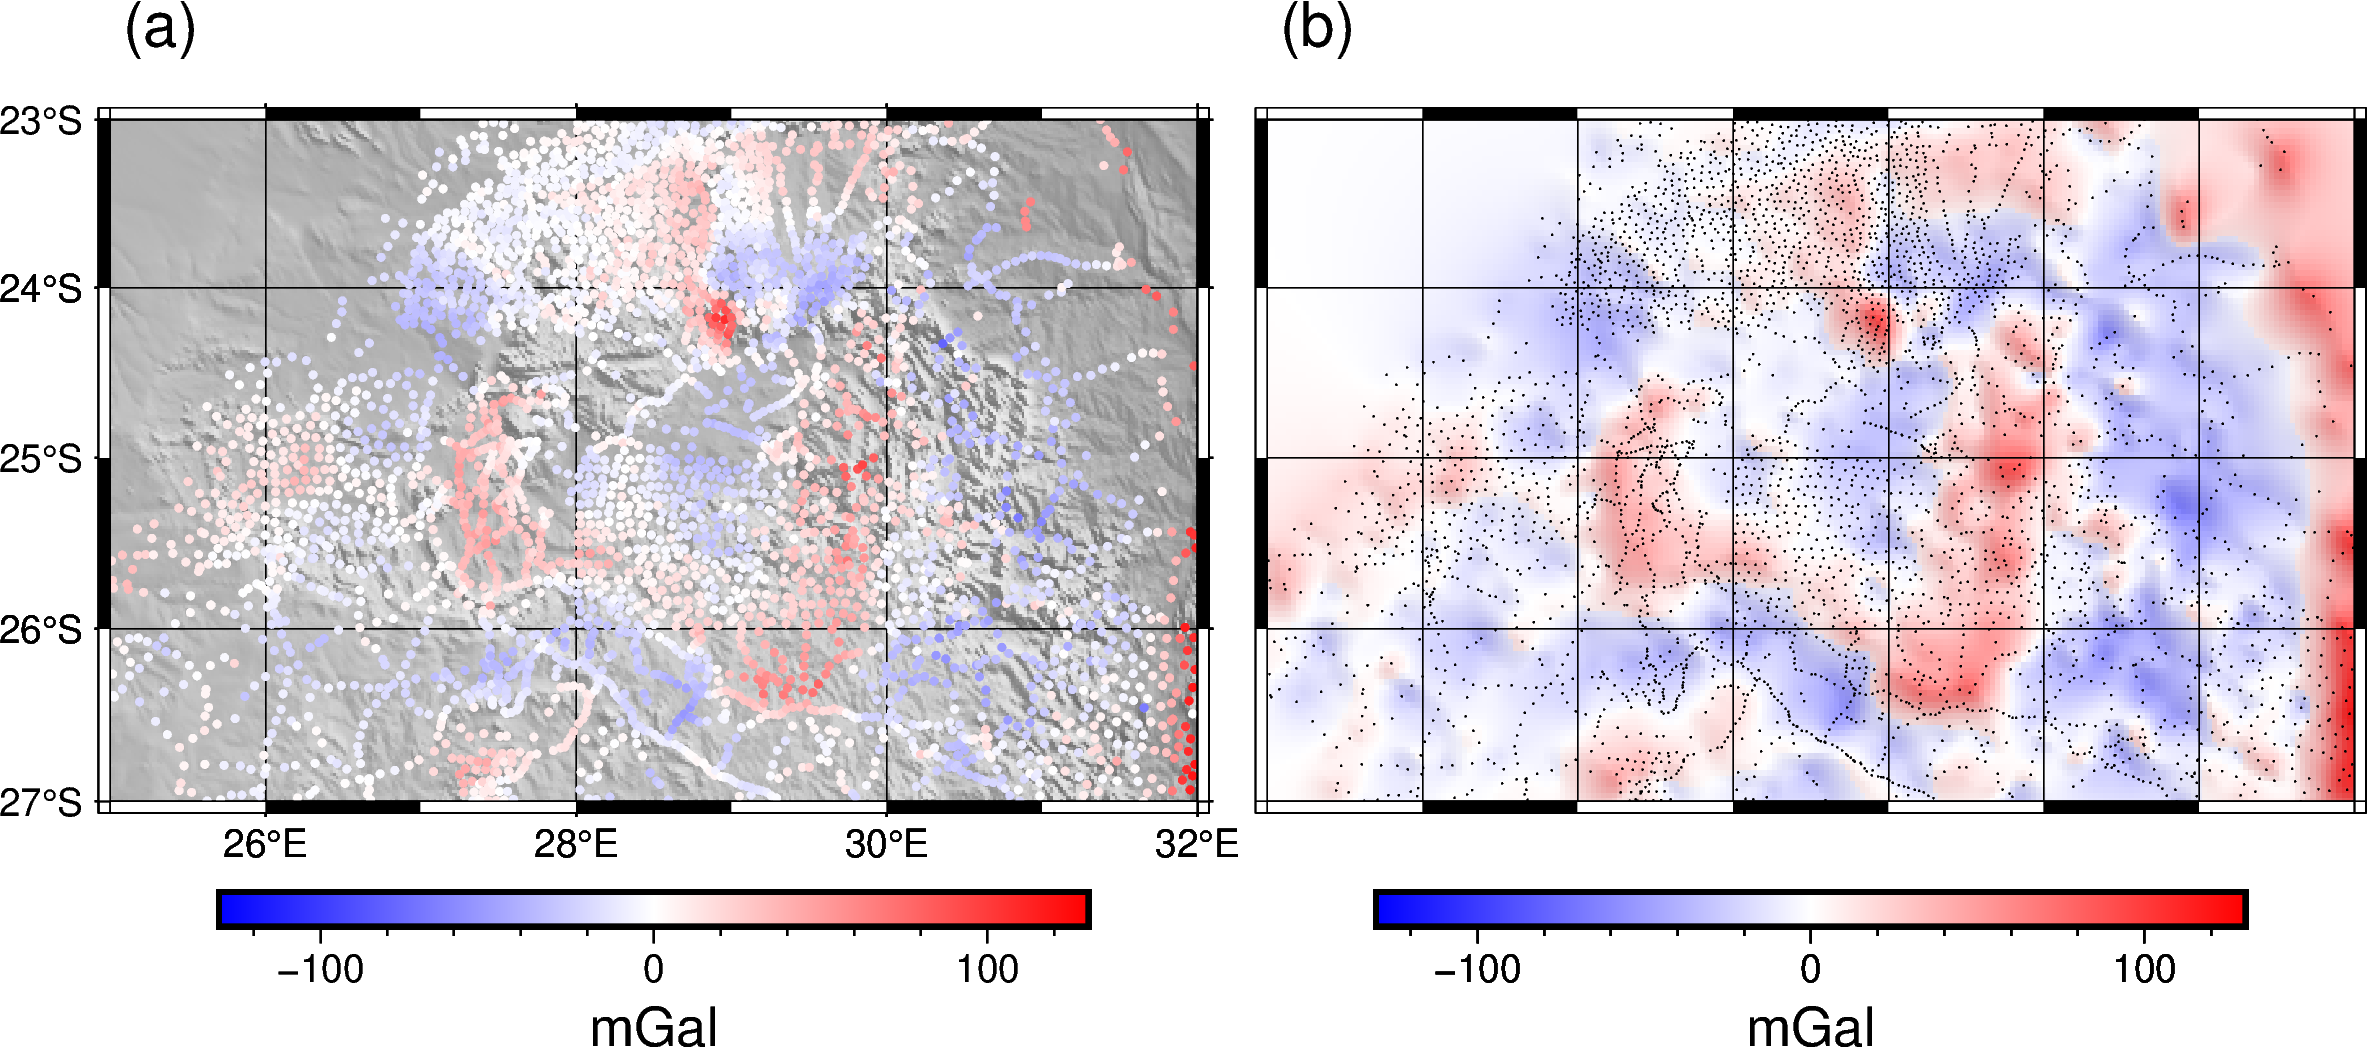
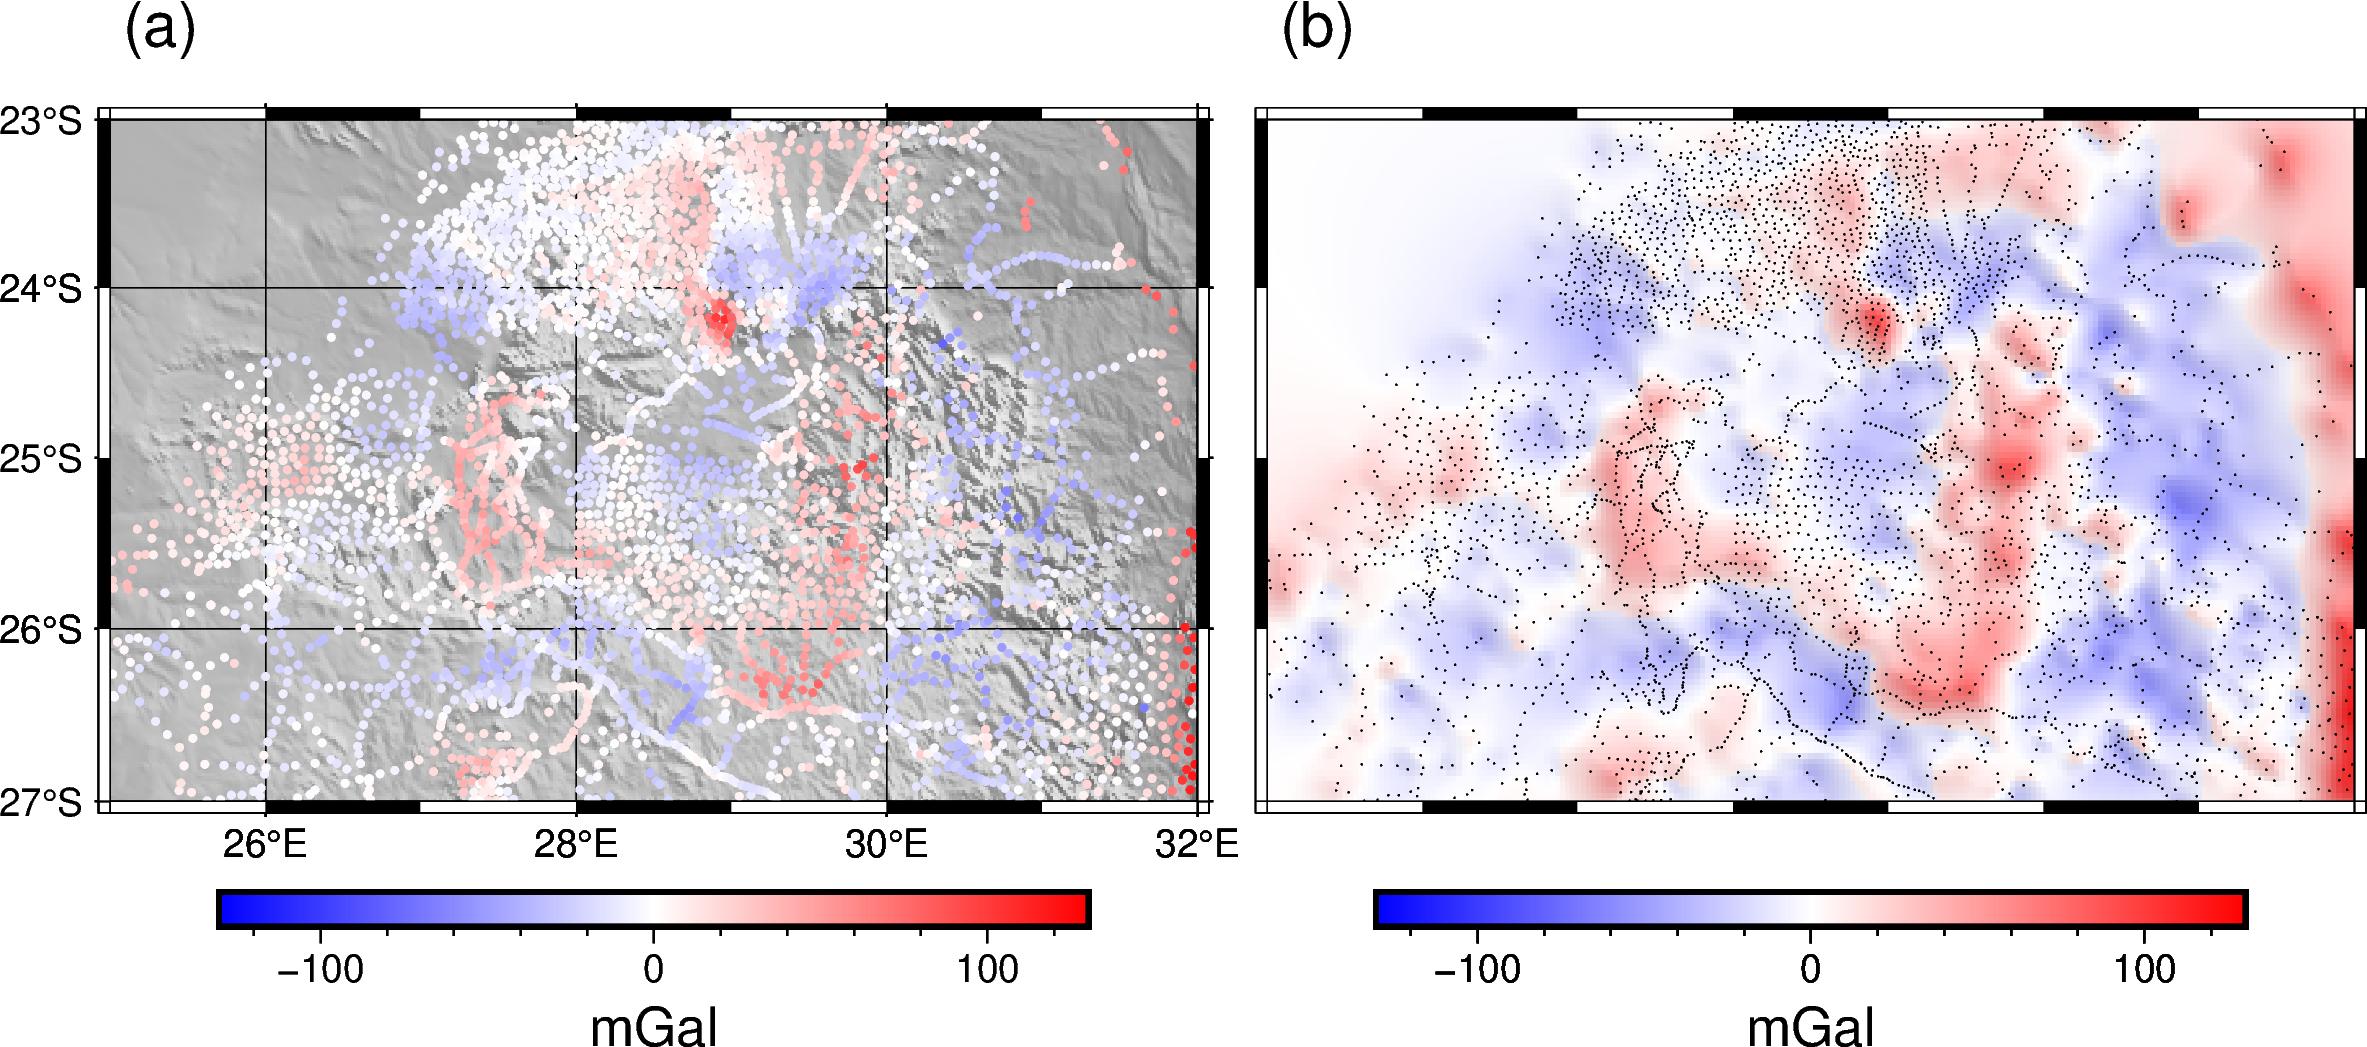
Remove grid from grdplot

diff --git a/extended-abstract/code/gravity_processing.py b/extended-abstract/code/gravity_processing.py
@@ -337,7 +337,7 @@ with fig.subplot(
             residual_grid.gravity_residual,
             shading="+a45+nt0.15",
             projection=projection,
-            frame="fg",
+            frame="f",
         )
         fig.colorbar(frame="af")
         fig.plot(
